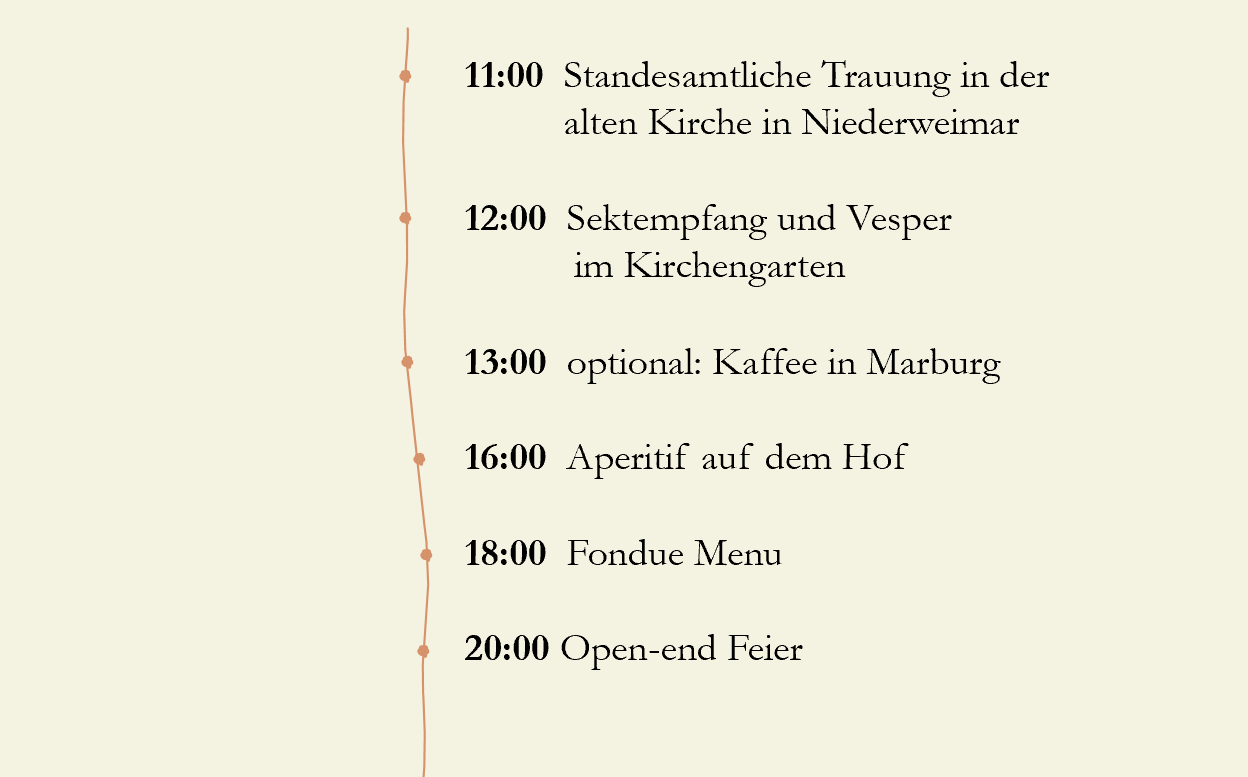
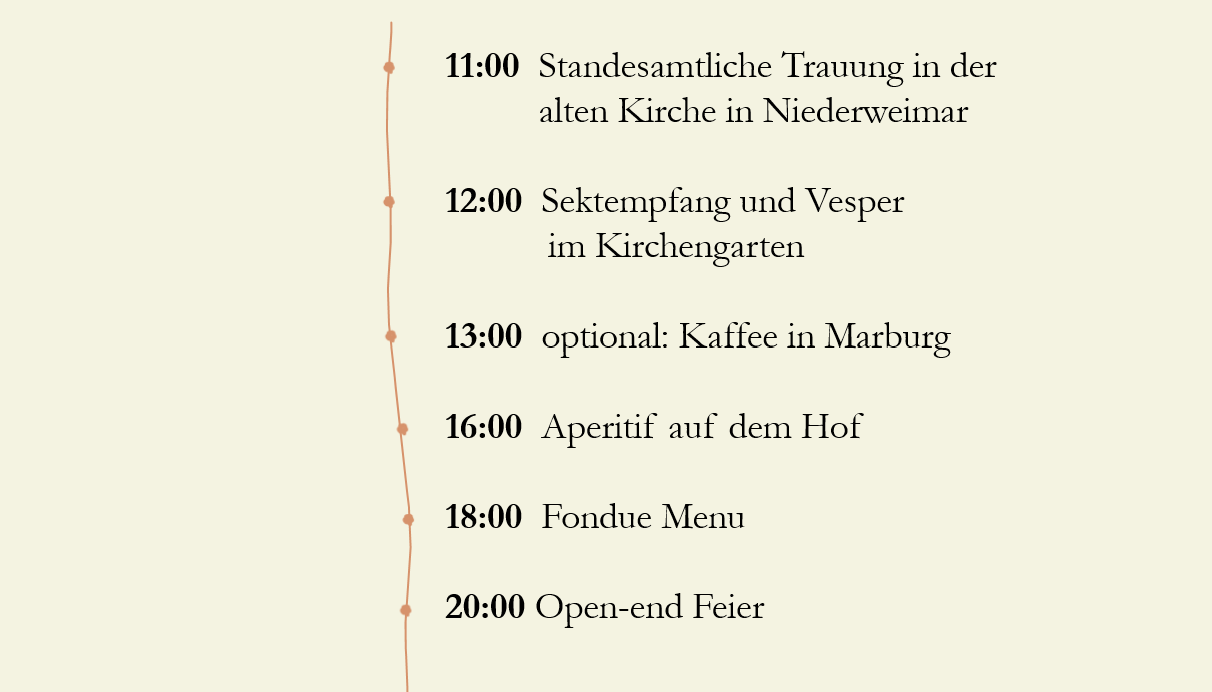
mobile check

diff --git a/julesundkati/dolcevita.html b/julesundkati/dolcevita.html
@@ -54,6 +54,12 @@
                     <li class="nav-item">
                         <a class="nav-link" href="#Zeitplan">Zeitplan</a>
                     </li>
+                    <li class="nav-item">
+                        <a class="nav-link" href="#details_bozen">Übernachten</a>
+                    </li>
+                    <li class="nav-item">
+                        <a class="nav-link" href="#feedback">Kommt ihr?</a>
+                    </li>
                 </ul>
             </div>
         </div>
@@ -69,16 +75,21 @@
             <div class="col-md-7 col-lg-7 col-sm-12 text-container-hero d-flex flex-column justify-content-center">
                 <img src="./img/segen_dolcevita_schriftzug.png" alt="Schritzug Bozen" class="img-lettering">
                 <h1 class="hero-text"><br> <br> <br> Wir Heiraten </h1>
-                <h4>
+
+                <img src="./img/cypressen.png" alt="Cypressen" class="img-logo">
+
+                <p class="text-center">
                     Und freuen uns riesig, dass ihr uns in dieser spannenden Zeit begleitet. Ohne euch wäre es nur halb so schön! <br>
                     Alles, was ihr noch wissen müsst, findet ihr auf dieser Seite. <br><br>
-                </h4>
+                </p>
+
+                
             </div>
         </div>
     </section>
 
     <!-- Locations Section -->
-    <section id="locations_bozen" class="container-custom fade-in">
+    <section id="Locations" class="container-custom fade-in">
         <div class="container">
             <div class="row">
                 <div class="col-lg-12 text-center">
@@ -89,28 +100,25 @@
                 <div class="col-lg-6 text-center">
                     <h5>Kirchliche Trauung</h5>
                     <p>Unsere kirchliche Trauung wird in der <a href="https://maps.app.goo.gl/riRdkCLLWm36XW1s9"> evangelischen Kirche</a> in Bozen stattfinden.</p>
+                    <!-- Image directly under text -->
+                    <img src="./img/ev_kirche.png" class="locations-img" alt="Kirche">
                 </div>
                 <div class="col-lg-6 text-center">
                     <h5>Feierlichkeiten</h5>
                     <p>Für das Get-Together am Freitag und die Feier am Samstag sind wir auf dem <a href="https://maps.app.goo.gl/kNxSDJAhPugqgKhN9"> Schloss Wangen-Bellermont</a> bei Bozen.</p>
-                </div>
-            </div>
-            <div class="row">
-                <div class="col-lg-6 text-center">
-                    <img src="./img/ev_kirche.png" class="locations-img" alt="Kirche">
-                </div>
-                <div class="col-lg-6 text-center">
+                    <!-- Image directly under text -->
                     <img src="./img/wangen.png" class="locations-img" alt="Schloss">
                 </div>
             </div>
         </div>
     </section>
 
+
     <!-- Zeitplan Section -->
-    <section id="zeitplan_bozen" class="container-custom fade-in">
+    <section id="Zeitplan" class="container-custom fade-in">
         <div class="row justify-content-center">
             <h2>Zeitplan</h2>
-            <div class="container col-5 text-center">
+            <div class="container col-lg-5 col-sm-10 text-center">
                 <img src="./img/zeitplan_dolcevita.png" class="img-fluid" alt="Zeitplan Dolve Vita">
             </div>
             <p class="p col-lg-8 text-center">
@@ -194,6 +202,20 @@
             <div class="mosaic-item"><img src="./img/jk12.jpg" class="mosaic-img" alt="Image 12"></div>
         </div>
         </div>
+        <p class="text-center">
+            Übrigens findet ihr die Fotos von unserer Hochzeit im Nachhinein auch hier auf der Website!
+        </p>
+    </section>
+
+    <section id="Feedback" class="container-custom fade-in">
+        <div class="container">
+            <div class="row justify-content-center">
+                <h2>Sagt uns Bescheid</h2>
+                <p class="p col-lg-8 text-center">
+                    Sagt uns bitte bis zum 15.02. Bescheid, ob und wenn ja, mit wie vielen Leuten ihr kommt.
+                </p>
+            </div>
+        </div>
     </section>
 
     <!-- Footer -->
@@ -215,7 +237,7 @@
                     observer.unobserve(entry.target);
                 }
             });
-        }, { threshold: 0.3 });
+        }, { threshold: 0.1 }); // x% of the element must be visible for the event to trigger
 
         fadeInElements.forEach(el => observer.observe(el));
     </script>

diff --git a/julesundkati/horche.html b/julesundkati/horche.html
@@ -54,6 +54,12 @@
                     <li class="nav-item">
                         <a class="nav-link" href="#Zeitplan">Zeitplan</a>
                     </li>
+                    <li class="nav-item">
+                        <a class="nav-link" href="#uebernachten">Übernachten</a>
+                    </li>
+                    <li class="nav-item">
+                        <a class="nav-link" href="#feedback">Kommt ihr?</a>
+                    </li>
                 </ul>
             </div>
         </div>
@@ -69,10 +75,15 @@
             <div class="col-md-7 col-lg-7 col-sm-12 text-container-hero d-flex flex-column justify-content-center">
                 <img src="./img/heirat_hoffest_schriftzug.png" alt="Schritzug Horche" class="img-lettering">
                 <h1 class="hero-text"><br> <br> <br> Wir Heiraten </h1>
-                <h4>
+
+                <p class="text-center">
                     Und freuen uns riesig, dass ihr uns in dieser spannenden Zeit begleitet. Ohne euch wäre es nur halb so schön! <br>
                     Alles, was ihr noch wissen müsst, findet ihr auf dieser Seite. <br><br>
-                </h4>
+                </p>
+
+            </div>
+        </div>
+    </section>
             </div>
         </div>
     </section>
@@ -110,7 +121,7 @@
     <section id="zeitplan_horche" class="container-custom fade-in">
         <div class="row justify-content-center">
             <h2>Zeitplan</h2>
-            <div class="container col-5 text-center">
+            <div class="container col-lg-5 col-sm-10 text-center">
                 <img src="./img/zeitplan_horche.png" class="img-fluid" alt="Zeitplan Horche">
             </div>
             <p class="p col-lg-8 text-center">
@@ -121,7 +132,7 @@
     </section>
 
     <!-- Übernachten -->
-    <section id="details" class="container-custom fade-in">
+    <section id="uebernachten" class="container-custom fade-in">
         <div class="container">
             <div class="row justify-content-center">
                 <h2>Übernachten</h2>
@@ -161,6 +172,17 @@
         </div>
     </section>
 
+    <section id="Feedback" class="container-custom fade-in">
+        <div class="container">
+            <div class="row justify-content-center">
+                <h2>Sagt uns Bescheid</h2>
+                <p class="p col-lg-8 text-center">
+                    Sagt uns bitte bis zum 15.02. Bescheid, ob und wenn ja, mit wie vielen Leuten ihr kommt.
+                </p>
+            </div>
+        </div>
+    </section>
+
     <!-- Footer -->
     <footer class="bg-dark text-white text-center py-4">
         <p>&copy; 2025 Kati & Jules</p>
@@ -180,7 +202,7 @@
                     observer.unobserve(entry.target);
                 }
             });
-        }, { threshold: 0.3 });
+        }, { threshold: 0.1 }); // x% of the element must be visible for the event to trigger
 
         fadeInElements.forEach(el => observer.observe(el));
     </script>

diff --git a/julesundkati/styles.css b/julesundkati/styles.css
@@ -288,6 +288,16 @@ a:hover {
     max-height: 100%;
 }
 
+.img-logo {
+    width: 20%;
+    height: auto;
+    object-fit: contain;
+    padding: 40px;
+    display: block;
+    max-height: 100%;
+    text-align: center;
+}
+
 /* Lines and Borders (using #D6926B) */
 hr {
     border: 1px solid #D6926B;
